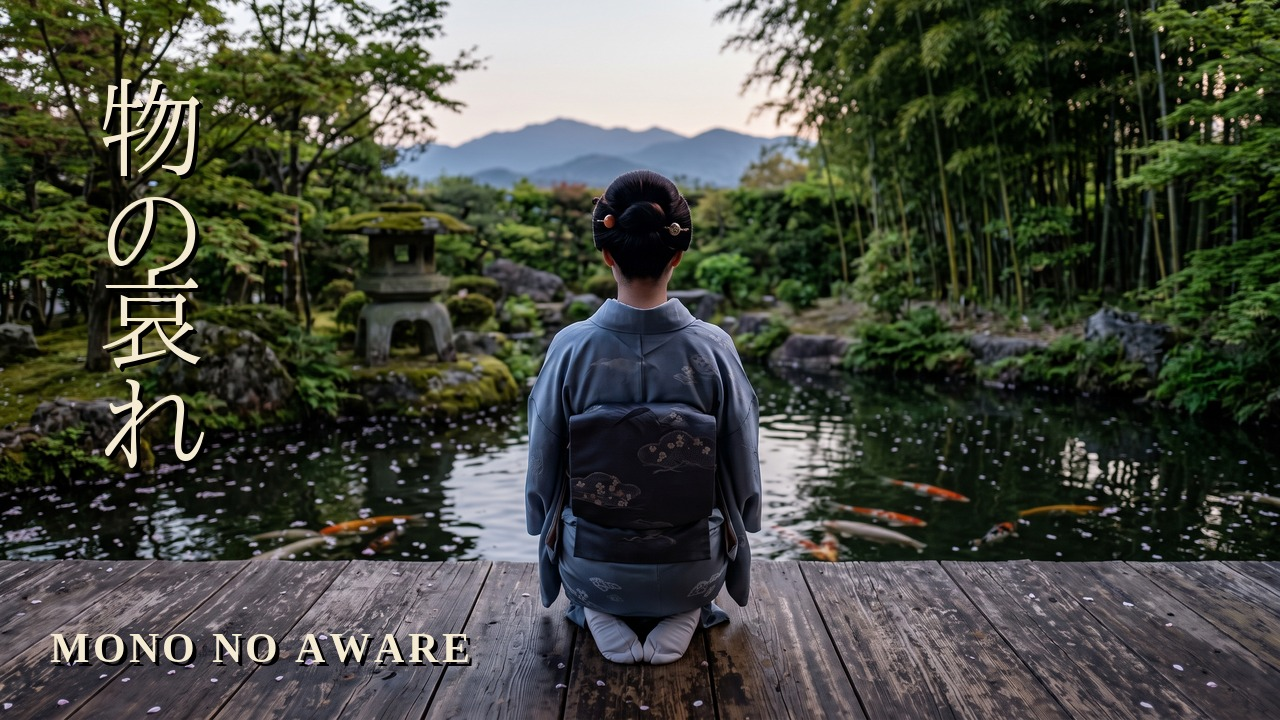
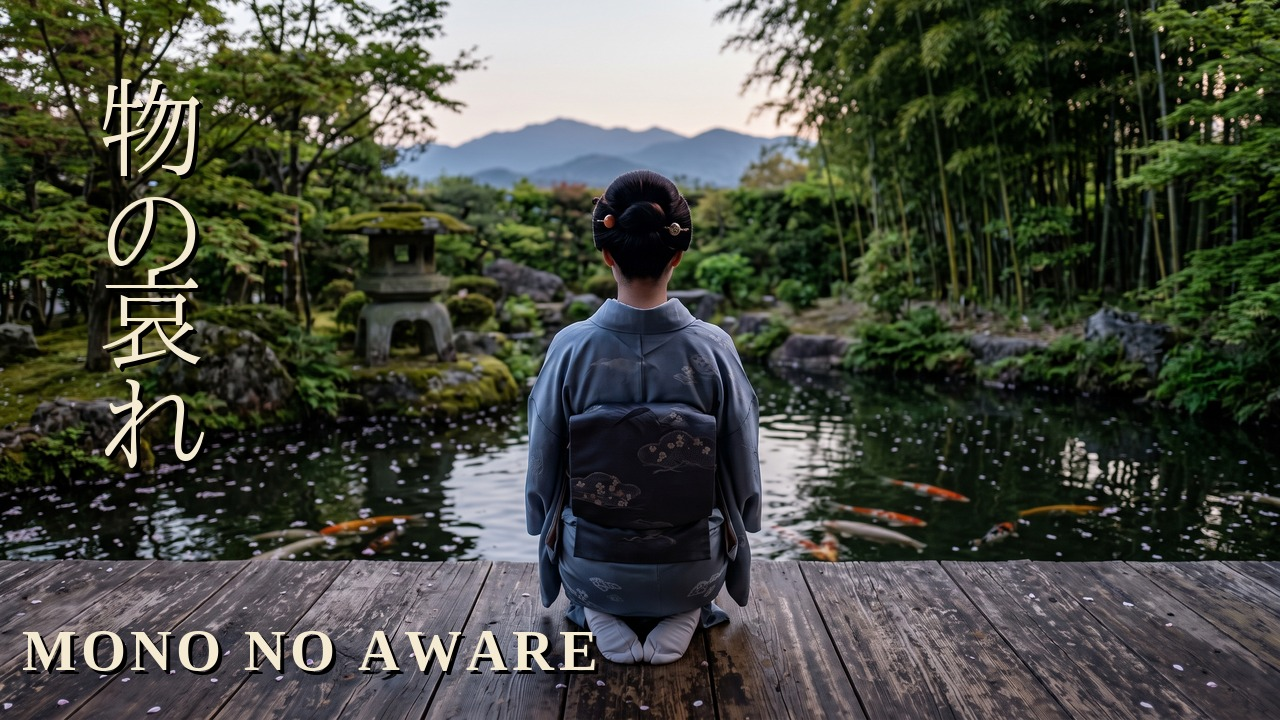
Increase MONO NO AWARE romaji size on thumbnail (42→58px)

Changed region(s): [[0.0, 0.8556, 0.4688, 0.9472]]

diff --git a/stillwave/assets/mono-no-aware-compose-thumb.py b/stillwave/assets/mono-no-aware-compose-thumb.py
@@ -30,10 +30,10 @@ KANJI_Y_TOP = 72            # start near top
 
 # --- Romaji block ---
 ROMAJI_TEXT    = "MONO NO AWARE"
-ROMAJI_SIZE    = 42
-ROMAJI_X_CTR   = 260        # center pushed right — long 13-char string needs room
-ROMAJI_Y       = 624
-ROMAJI_SPACING = 3          # extra letter spacing
+ROMAJI_SIZE    = 58
+ROMAJI_X_CTR   = 310        # center pushed right — long 13-char string needs room
+ROMAJI_Y       = 618
+ROMAJI_SPACING = 4          # extra letter spacing
 
 
 def shadow_text(draw, xy, text, font, fill, offset=SHADOW):
